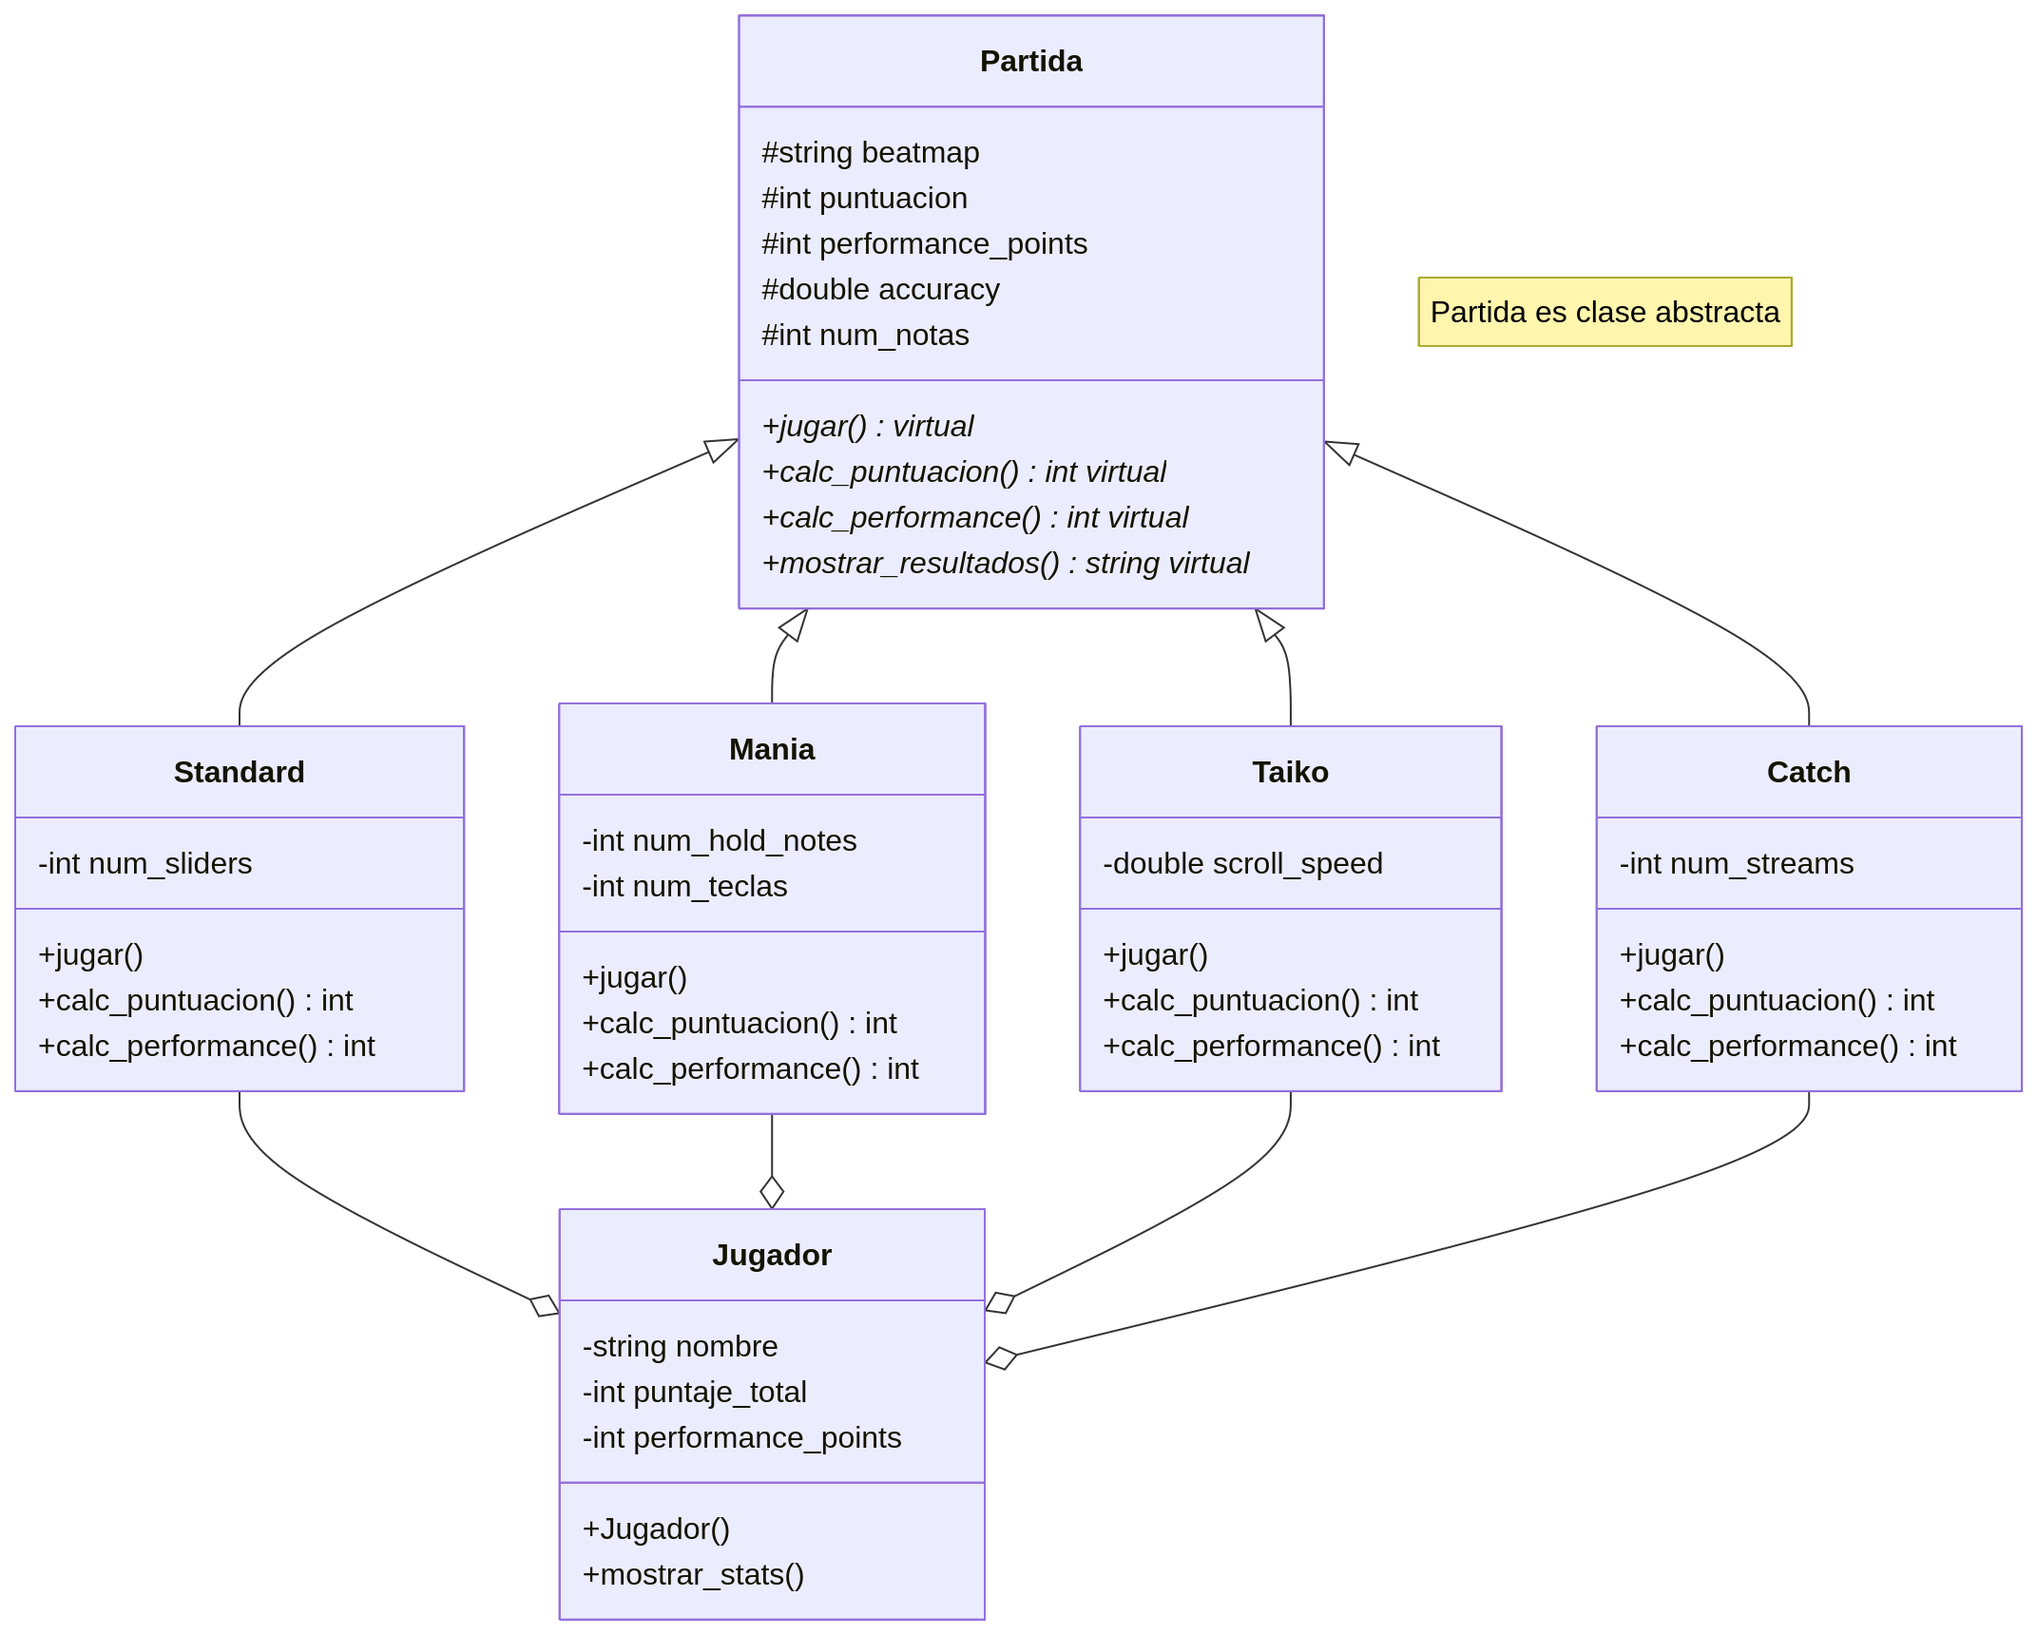
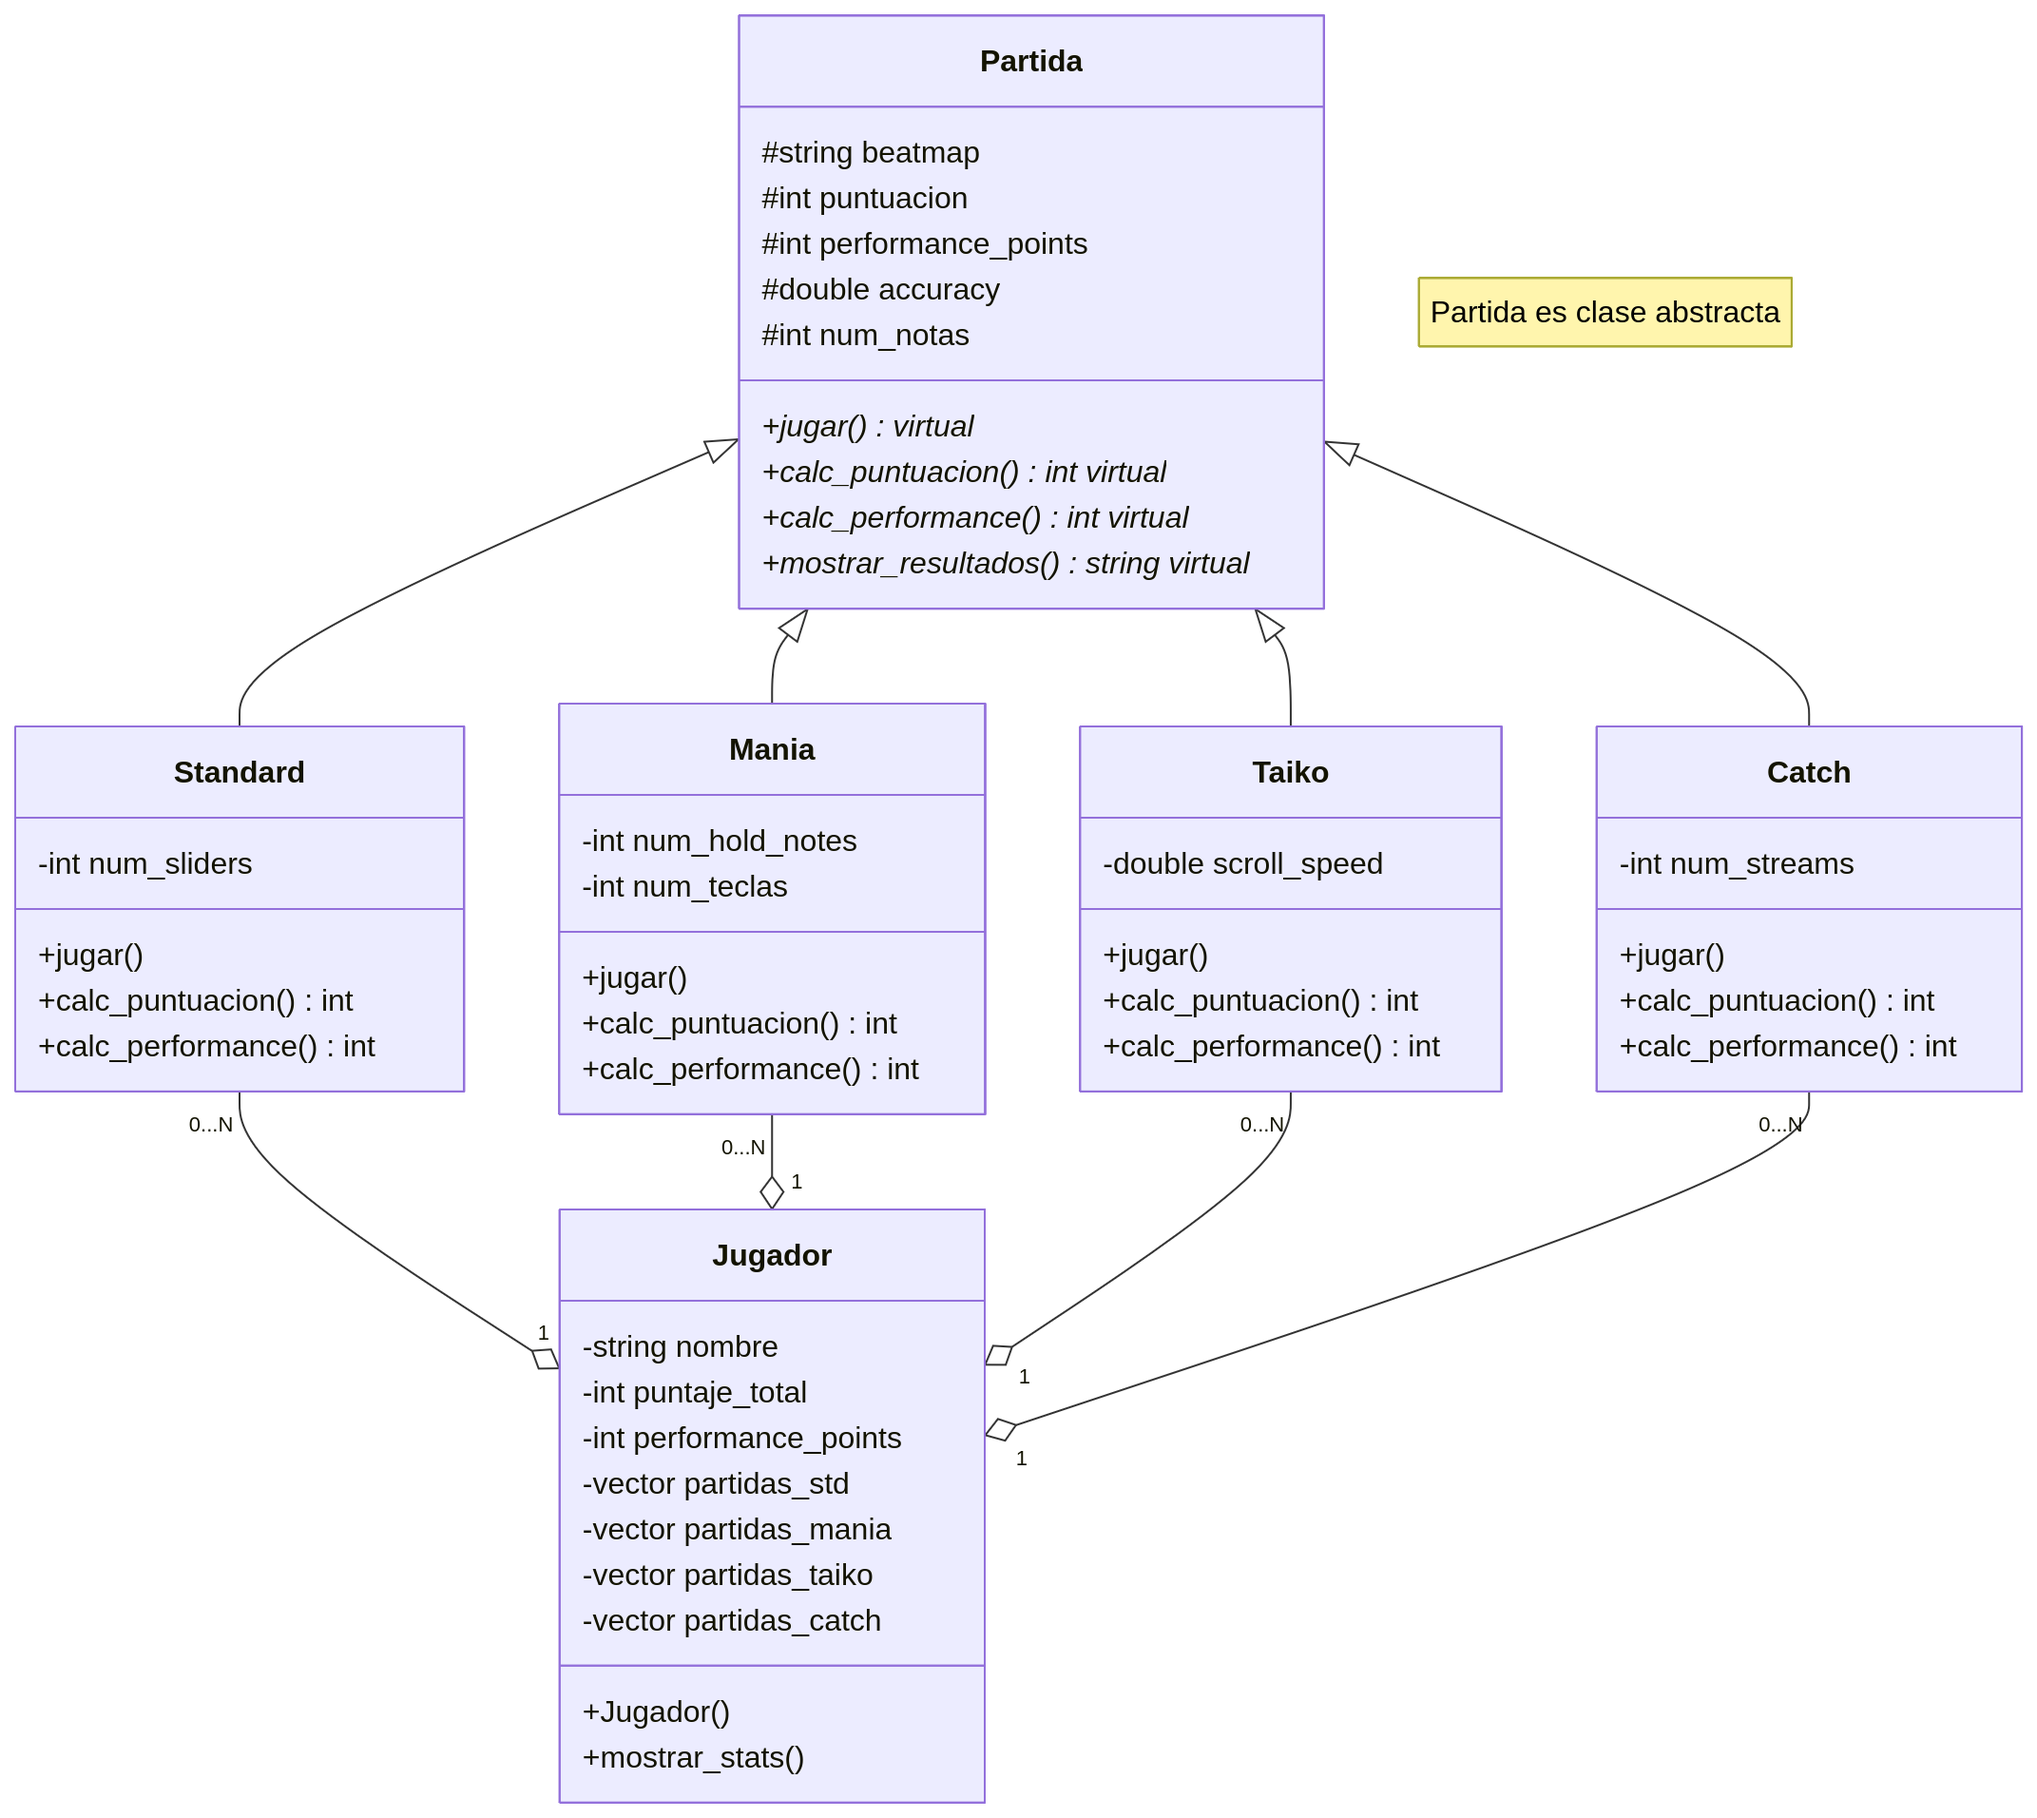
uml: update

diff --git a/uml.md b/uml.md
@@ -53,13 +53,17 @@ class Jugador {
     -string nombre
     -int puntaje_total
     -int performance_points
+    -vector<Standard> partidas_std
+    -vector<Mania> partidas_mania
+    -vector<Taiko> partidas_taiko
+    -vector<Catch> partidas_catch
     
     +Jugador()
     +mostrar_stats()
 }
 
 
-Standard --o Jugador
-Mania --o Jugador
-Taiko --o Jugador
-Catch --o Jugador
+Standard "0...N" --o "1" Jugador
+Mania "0...N" --o "1" Jugador
+Taiko "0...N" --o "1" Jugador
+Catch "0...N" --o "1" Jugador
